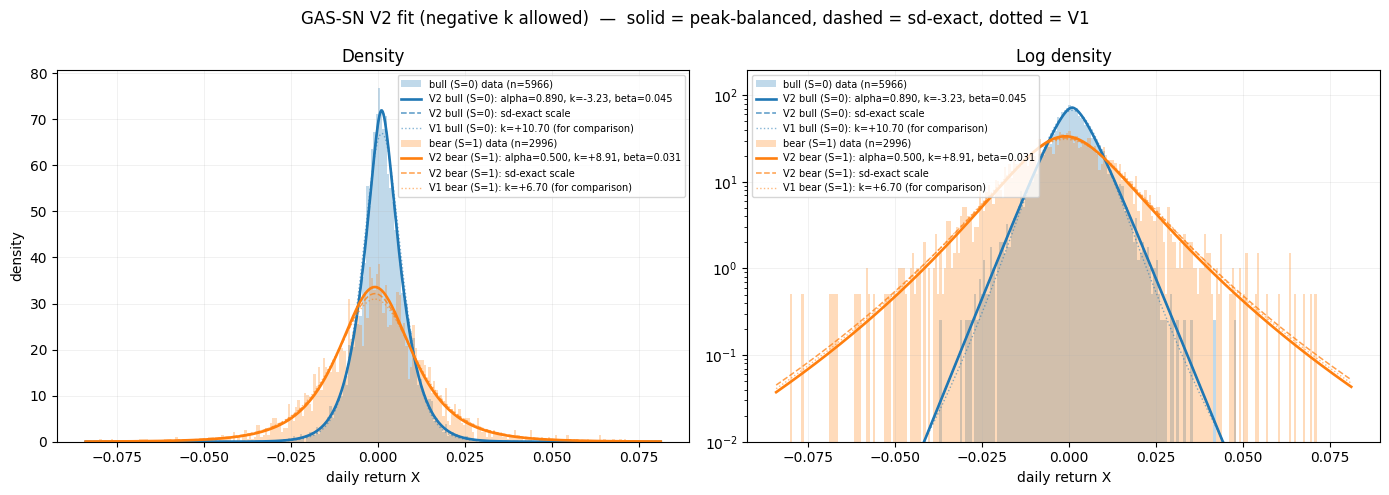
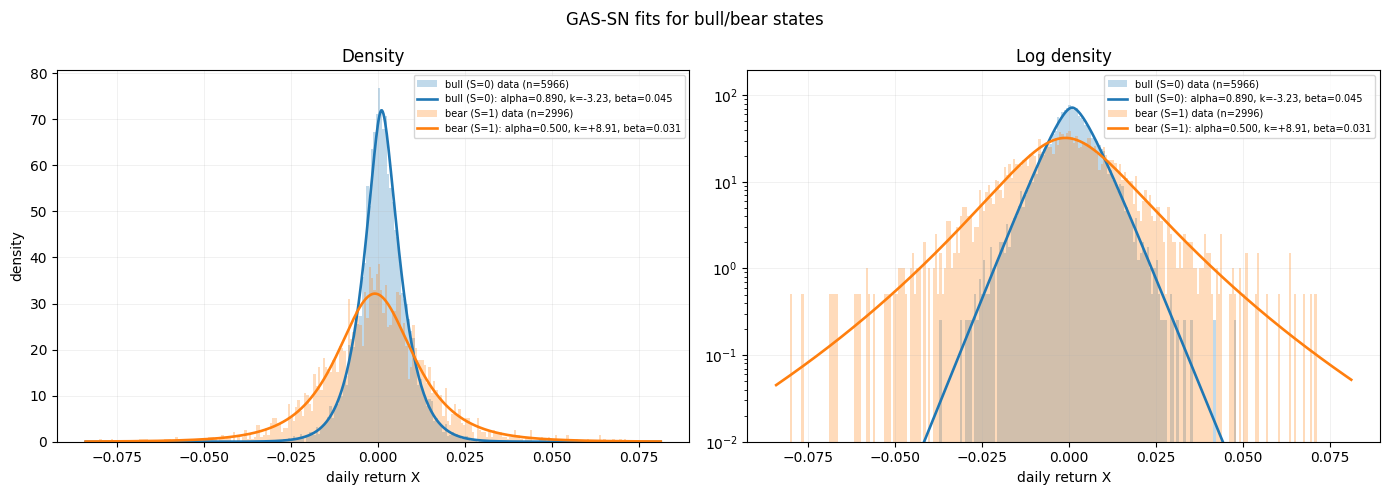
slides: LNN oriented fits

diff --git a/slides/frac_slides.md b/slides/frac_slides.md
@@ -416,25 +416,13 @@ Yuqi's Mixture-VAE code base: (Nie, Mulvey, Poor, Yu & Huang (2026))
 
 ---
 
-## Cluster distance — between the two states
-
-$$\text{cluster distance} = \frac{|\mathrm{median}_1 - \mathrm{median}_0|}{\mathrm{MAD}},$$
-
-$$\text{where} \quad \mathrm{MAD} = 1.4826\thinspace \mathrm{median}\big(|x - \mathrm{median}(x)|\big).$$
-
-A better measure of the separation between the two states. It is like the loc/sd, but built from medians — It always exists, and **fat tails cannot move it**. 
-
-Rationale: Inside Yuqi's code, $X$ is z-scored before building a feature, so **only the ratio reaches the model**.
-
----
-
 ## Global regime - Bull/bear states by the jump model
 
 Use the jump model to label the bull/bear states in the S&P500 daily return, $8{,}962$ days, $1991\text{–}2026$.
 
 <table class="layout"><tr><td width="34%">
 
-**Transition**
+**Transition Matrix**
 
 | | bull | bear |
 |---|---|---|
@@ -447,28 +435,47 @@ $\mathbf{35}$ **bear episodes** over $\mathbf{35}$ years
 
 </td><td width="66%">
 
-![w:640](assets/global_regime_history.png)
+![w:700](assets/global_regime_history.png)
 
 </td></tr></table>
 
+---
+
+## Global regime - How to initialize the GAS-SN fits
+
+<table class="layout"><tr><td width="34%">
+
+**Symmetric GAS-SN**
+
+The contour plot of the ex-kurtosis $\kappa$ vs std peak density (SPD) plane.
+
+* **all data** (SPX 1990-2026)
+* **bull data**: negative-*k*
+* **bear data**: near LNN
+
+The point determines the first $(\alpha, k)$.
+The thick dark line is **the LNN limit** as $k \to \infty$.
+
+</td><td width="66%">
+
+![w:740](assets/gsas_ex_kurt_vs_spd.png)
+
+</td></tr></table>
 
 ---
 
-## Global regime - GAS-SN fits
+## Global regime - GAS-SN fits of bull/bear states
 
-**Emission probability** — one GAS-SN per state. Two versions of the fit are used to demonstrate the **negative-*k*** branch:
+Use MLLK to fit the data sets:
 
-* positive-*k*: generalized $\alpha$-stable
-* negative-*k*: generalized exponential power (thinner tails)
+* **bull** in negative-*k*: generalized exponential power (thinner tails)
+* **bear** in positive-*k*: generalized $\alpha$-stable, large-k and low-alpha, numerically hard
 
-The difference in the bull state fit is more obvious. The negative-*k* fit matches the peak density to $+0.08$%, where the positive-*k* fit was $10.9$% low.
 
-| state | fit | $\alpha$ | $k$ | $\beta$ | scale | loc | sd | $\kappa$ |
-|---|---|---|---|---|---|---|---|---|
-| **bull** ($S=0$), $66.6$% | V1 | $0.703$ | $10.70$ | $0.053$ | $0.00984$ | $+0.00084$ | $0.00722$ | $1.86$ |
-| | **V2** | $0.89$ | $\mathbf{-3.23}$ | $0.045$ | $0.00536$ | $+0.00089$ | $0.00722$ | $1.86$ |
-| **bear** ($S=1$), $33.4$% | V1 | $0.704$ | $6.70$ | $0.033$ | $0.01984$ | $-0.00119$ | $0.01672$ | $5.40$ |
-| | **V2** | $0.50$ | $8.91$ | $0.031$ | $0.04556$ | $-0.00117$ | $0.01672$ | $5.41$ |
+| state | $\alpha$ | $k$ | $\beta$ | scale | loc | sd | $\kappa$ |
+|---|---|---|---|---|---|---|---|
+| **bull** ($S=0$), $66.6$% | $0.89$ | $\mathbf{-3.23}$ | $0.045$ | $0.00536$ | $+0.00089$ | $0.00722$ | $1.86$ |
+| **bear** ($S=1$), $33.4$% | $0.50$ | $8.91$ | $0.031$ | $0.04556$ | $-0.00117$ | $0.01672$ | $5.41$ |
 
 
 ---
@@ -479,22 +486,22 @@ The difference in the bull state fit is more obvious. The negative-*k* fit match
 
 Simulating from the fits reproduces the real series on share and scale — bear share $0.337$ vs $0.334$.
 
-<small>Pooled $\kappa$ is $8.42$ (V2) and $9.96$ (V1) vs $10.77$, but that gap is **finite-sample noise, not a defect of either fit**: the bear state's 4th moment rides on a handful of extreme draws, and one fit returns $\kappa$ anywhere from $4.1$ to $8.1$ across draws.</small>
+<small>Pooled $\kappa$ is $8.42$ vs data's $10.77$, but that gap is **finite-sample noise, not a defect of either fit**: the bear state's 4th moment rides on a handful of extreme draws, and one fit returns $\kappa$ anywhere from $4.1$ to $8.1$ across draws.</small>
 
 
 ---
 
-## Global regime - Bear state favors the low-alpha fit
+## Global regime - How was the LNN limit discovered (9/2026)
 
-The MLLK fit tends to favor lower $\alpha$ and higher $k$. So we study it more (this slide and next). 
+The MLLK fit of bear state tends to favor lower $\alpha$ and higher $k$. So we study it more (this slide and next). 
 
 **$c^{\ast}$** is the distance from the mean at which the fitted model's 4th moment, counted only inside $\pm c^{\ast}$, reaches the data's full $\mu_4/\sigma^4 = 8.40$ (excess $\kappa = 5.40$). Beyond $c^{\ast}$ is **the rest**: kurtosis that no observed day accounts for. The largest observed bear move is $0.1166$.
 
 | $\alpha$ | $k$ | MLLK | $c^{\ast}$ | $c^{\ast}$ in model sd | $\mu_4$ beyond $c^{\ast}$ | share of model $\mu_4$ | expected days beyond $c^{\ast}$ |
 |---|---|---|---|---|---|---|---|
-| $0.50$ (**V2**) | $8.91$ | $1.34291$ | $0.856$ | $51.2$ | $0.01$ | $0.1$% | $0.00$ (good) |
+| $0.50$ | $8.91$ | $1.34291$ | $0.856$ | $51.2$ | $0.01$ | $0.1$% | $0.00$ (good) |
 | $0.60$ | $7.22$ | $1.34212$ | $0.245$ | $14.7$ | $0.95$ | $10.1$% | $0.02$ | 
-| $0.70$ (~V1) | $6.06$ | $1.34200$ | $0.208$ | $12.5$ | $2.37$ | $22.0$% | $0.07$ (okay) |
+| $0.70$ | $6.06$ | $1.34200$ | $0.208$ | $12.5$ | $2.37$ | $22.0$% | $0.07$ (okay) |
 | $0.80$ | $5.17$ | $1.34189$ | $0.190$ | $11.3$ | $5.37$ | $39.0$% | $0.16$ | 
 | $0.95$ | $4.17$ | $1.34180$ | $0.176$ | $10.4$ | $50.66$ | $85.8$% | $0.36$ (bad) |
 
@@ -504,10 +511,12 @@ $c^{\ast}$ lies beyond every observed day at every $\alpha > 0.5$. As $\alpha$ r
 
 ## Global regime - Is the bear state a lognormal-normal distribution (LNN) ?
 
-Take a bold limiting jump. Let $\alpha \to 0$ and $|k| \to \infty$ with $T \approx 1/(\alpha |k|)$ fixed. And let $V \sim \bar\chi_{\alpha,k}$, then:
+Take a bold limiting jump. Let $\alpha \to 0$ and $|k| \to \infty$ with $T \approx 1/(\alpha |k|)$ fixed. Then
 
-* $V$ becomes a lognormal: $\log V - \mathbb{E}[\log V] \xrightarrow{d} N(0, T)$.
-* Symmetric GAS-SN becomes an LNN: $X \sim Z \thinspace \exp(Y)$, where $Z \sim N(0,1)$, $Y \sim N(0,T)$.
+* $V \sim \bar\chi_{\alpha,k}$ becomes a lognormal: $\log V - \mathbb{E}[\log V] \xrightarrow{d} N(0, T)$.
+* Symmetric GAS-SN $Z / V$ becomes an LNN: 
+
+$\qquad \qquad X \sim Z \thinspace \exp(Y)$, where $Z \sim N(0,1)$, $Y \sim N(0,T)$.
 
 ### Data evidence
 
@@ -519,6 +528,20 @@ $$
 
 <small>(LNN: Clark (1973); Tauchen & Pitts (1983). Not in scipy. But it has a deep connection to this work.)</small>
 
+
+---
+
+## Cluster distance — separation between the two states
+
+$$\text{cluster distance} = \frac{|\mathrm{median}_1 - \mathrm{median}_0|}{\mathrm{MAD}},$$
+
+$$\text{where} \quad \mathrm{MAD} = 1.4826\thinspace \mathrm{median}\big(|x - \mathrm{median}(x)|\big).$$
+
+A better measure of the separation between the two states. It is like the loc/sd, but built from medians — It always exists, and **fat tails cannot move it**. 
+
+Rationale: Inside Yuqi's code, $X$ is z-scored before building a feature, so **only the ratio reaches the model**.
+
+
 ---
 
 ## Global regime - model output
@@ -527,18 +550,17 @@ $$\textbf{Cluster distance is only } 0.254 \textbf{ MAD — yet Jump scores } 0.
 
 Feeding those emissions and that transition matrix through the same comparator, $T = 100{,}008$:
 
-| model | **V2** | V1 |
-|---|---|---|
-| **Jump** | $\mathbf{0.9246}$ | $0.9117$ |
-| Mixture-VAE | $0.8613$ | $0.8536$ |
-| KMeans++ | $0.8269$ | $0.8145$ |
-| Gaussian-HMM | $0.5000$ | $0.5006$ |
+| model | Accuracy |
+|---|---|
+| **Jump** | $\mathbf{0.9246}$ |
+| Mixture-VAE | $0.8613$ |
+| KMeans++ | $0.8269$ |
+| Gaussian-HMM | $0.5000$ |
 
 - All three ML models score very high.
 - **HMM fails outright** ($0.5000$, "model is not converging"), rather than merely trailing.
 - Jump ran at `jump_penalty` $=100$ to match the original notebook.
-- Emissions clipped at $\pm 20$ **sd**. So V1 and V2 are a controlled comparison.
-- V2 lifts all three working models by $\approx 0.01$, tracking its larger cluster distance ($0.254$ vs $0.246$).
+- Emissions clipped at $\pm 20$ **sd**. 
 
 
 ---
